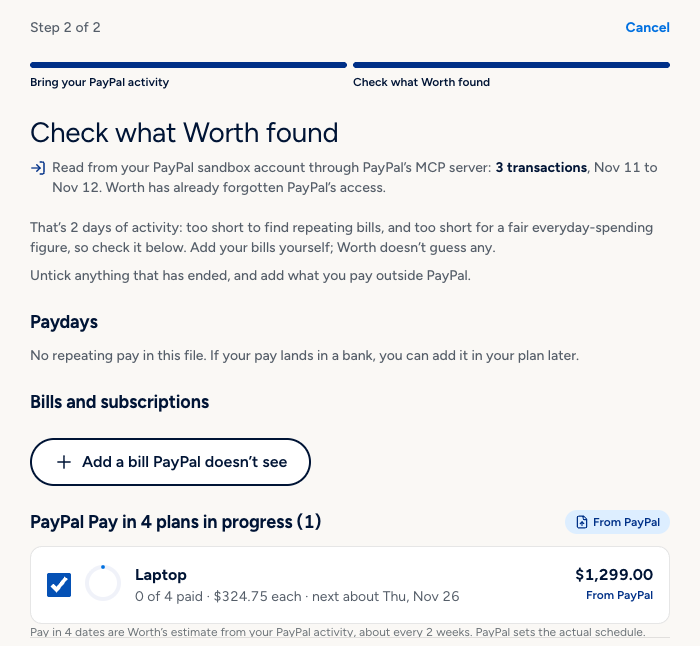
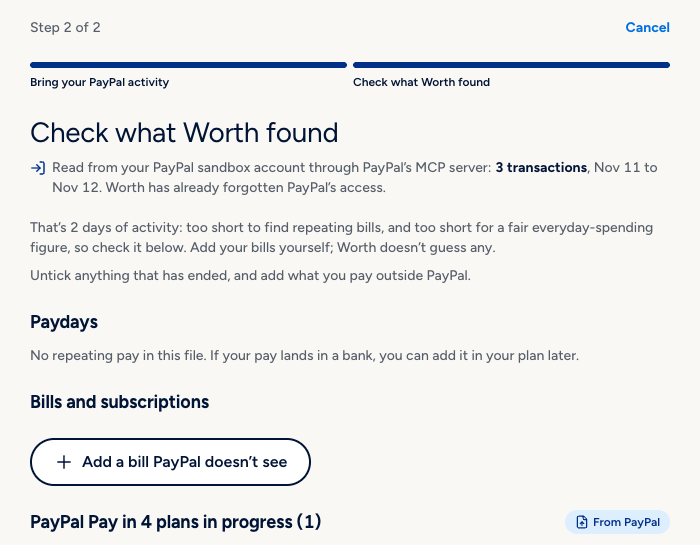
docs: apply the cold judge's stale list: app wording, the guide and its limits, Connect PayPal expectations, dated measurements

diff --git a/README.md b/README.md
@@ -23,7 +23,7 @@ session with a sample plan (Alex, on the demo day Fri, Nov 13, 2026), kept for 2
 
 - **Hosted app:** https://worth.onrender.com opens on Alex's sample plan on the demo day,
   Fri, Nov 13, 2026: the same person and numbers as the video; nothing to install. He has
-  $2,540 available, but the $1,899 Halden X5 camera does not fit that day (room to spend today
+  $2,540 available, but the $1,899 Halden X5 camera does not fit that day (Safe to spend today
   is $872.26); Worth says wait until Tue, Dec 15, the day after a PayPal invoice pays him.
   https://worth.onrender.com/?replay=demo-dec15 opens his return visit, with the camera saved
   and ready.
@@ -92,8 +92,8 @@ and 47% of BNPL users say they paid late in the past year
   Each pressed option gets one summary box. The cushion is a dotted line, any stretch below it is
   shaded red, thin green lines mark days money comes in and thin red lines days money goes out.
   A range control switches between To payday, 30 days and 60 days, a day-in-focus panel explains
-  the day you point at (or pin with the arrow keys), and **View as table** carries the same
-  numbers.
+  the day you point at (or pin with the arrow keys), and **View as table** lists each day's
+  lowest balance.
 - **The guide explains the chart.** Ask Worth on that page about the chart ("What does the red
   shading mean if I buy it today?") and the guide answers from the chart's own facts and changes
   the view to match: which pills are pressed, the range and the day in focus. A short nudge per
@@ -107,8 +107,9 @@ and 47% of BNPL users say they paid late in the past year
   PayPal; Worth captures only when you confirm in Worth, and the payment shows up in Activity
   once.
 - **Save it for the day it fits.** "Save for Tue, Dec 15" keeps the item with its date. When the
-  day comes, Saved says the plan suggests it may fit, you confirm today's funds, Worth checks
-  again, and only then does Buy with PayPal open.
+  day comes, Saved runs a fresh check against today's funds (asking you to confirm them first if
+  they aren't confirmed for today) and shows "Fresh check: this fits today"; only then does
+  **Buy with PayPal** open.
 - **Something cheaper, from real stores.** Under Spend less, and when you ask for something
   cheaper, Worth lists up to four similar products from other stores priced within what keeps the
   cushion today, found through Channel3. They link out; Worth does not sell them.
@@ -160,24 +161,29 @@ Open https://worth.onrender.com. No sign-in; each browser gets its own anonymous
 2. On Home, choose **Connect PayPal**, read the note, then **Continue to PayPal**.
 3. Log in with the sandbox buyer
    (`TODO(owner): sandbox buyer login — see the Devpost testing notes`). PayPal's screen names
-   "Default Application" (PayPal's MCP connector) and asks for transaction data. Choose **Agree
-   and Connect**. If you cancel at PayPal, use your browser's Back button to return.
+   "Default Application" (PayPal's MCP connector) and asks for transaction data. It also lists
+   other permissions (such as invoicing, checkout and disputes), because the connector asks for
+   them; Worth only ever calls `list_transactions` and refuses every other tool before any request
+   is made (`ALLOWED_TOOLS` in `server/paypalConnect.ts`). Choose **Agree and Connect**. If you
+   cancel at PayPal, use your browser's Back button to return.
 4. Wait about 30–40 seconds while Worth reads the activity with PayPal's read-only
    `list_transactions` tool. Then check what it found: this account's $1,299 Laptop bought with
-   Pay in 4 appears as a plan. A purchase PayPal funded with Pay Later, with no payment rows yet,
-   starts as "1 of 4 paid", because PayPal takes the first payment at checkout. **Cancel** or
+   Pay in 4 appears as a plan. A purchase funded by PayPal Pay Later with no payment rows starts
+   as "1 of 4 paid", with three payments left about 14, 28 and 42 days after the purchase
+   (PayPal's US Pay Later takes the first payment at the time of the transaction). **Cancel** or
    **Back** on this screen returns to Home.
-5. Enter money available, a cushion and everyday spending, then **Continue**. Home shows
-   "PayPal connected · updated today".
+5. Enter money available, a cushion and everyday spending (add a payday too, if you can), then
+   **Continue**. Home shows "PayPal connected · updated today".
 6. To return to Alex: **Settings → Delete my data now → Delete and start over**.
 
 A sandbox account holds only what was done in that sandbox, so it has no payday or bills, and
-Worth does not invent any. Home can then read "Short by … on <date>": with no payday in the plan,
-everyday spending and the remaining Pay in 4 payments draw the projected balance below your
-cushion, and the figure is how far below. Add your payday and bills under Plan. Worth keeps
+Worth does not invent any. Until money available and a payday are added (in the review, or later
+under Plan), Home can read "$0 · Short by … on <date>": with no income, everyday spending and the
+remaining Pay in 4 payments draw the projected balance below your cushion, and the figure is how
+far below. Worth keeps
 PayPal's access for one read only, and cannot pay, invoice or move money with it.
 
-![Connect PayPal's review step for a sandbox account: 3 transactions read through PayPal's MCP server, no repeating pay or bills found, and the $1,299 Laptop Pay in 4 plan from PayPal](docs/img/connect-review.png)
+![Connect PayPal's review step for a sandbox account: 3 transactions read through PayPal's MCP server, Worth has already forgotten PayPal's access, too little history for repeating bills, no repeating pay found, an Add a bill PayPal doesn't see button, and the heading for the one Pay in 4 plan in progress](docs/img/connect-review.png)
 
 Pay in 4 itself is chosen inside PayPal's checkout. A sandbox buyer can pick it there; Worth
 cannot see which funding the buyer chose (PayPal's order and capture do not say), so after a
@@ -238,15 +244,19 @@ credentials and the browser receives only the public client ID.
   `file`) and when (`importedAt`); Home's "PayPal connected · updated today" reads those two
   fields, never anything the browser claims.
 
-Verified against the sandbox: SDK v6 popup approval followed by exactly one capture; a US sandbox
-buyer paying $1,199 (an earlier catalog item) with Pay in 4 inside PayPal's checkout (4 × $299.75); and, on the hosted
-app, a capture followed by a $50 refund whose webhook arrived, passed verification and produced
-the review item.
+Checked by hand in the sandbox in October, before the Alex sample: SDK v6 popup approval followed
+by exactly one capture, and a US sandbox buyer paying $1,199 (an earlier catalog item) with Pay
+in 4 inside PayPal's checkout (4 × $299.75). The webhook path (signature verification, refund to
+review item) is covered by the test suite.
 
 ## How AI is used
 
 Claude is the interface and the narrator; the engine is the decision-maker.
 
+- **The guide.** Ask Worth is fronted by a small drawn character, also called Worth
+  (`src/Guide.tsx`), in a launcher on every screen (`src/AgentLauncher.tsx`). Its expression
+  follows the answer (thinking, fits, warning); the panel offers starter questions about the item
+  on screen and a **Take the tour** link.
 - **Model.** `claude-sonnet-5-5` through `@anthropic-ai/sdk`, with a frozen, prompt-cached system
   prompt and strict tool schemas. The loop allows four model rounds and six tool calls, with no
   SDK retries.
@@ -278,6 +288,14 @@ Claude is the interface and the narrator; the engine is the decision-maker.
   comparison for it, built by the server from the catalog. Worth prepares no order: on the
   comparison you choose Buy today anyway, Save for the day it fits, or nothing, and Worth's
   PayPal sandbox checkout opens only behind its guards.
+- **What Claude is not allowed to do.** It has no tool that pays, captures, creates an order,
+  saves, edits the plan or moves money (the tool list is in `server/chat.ts`; the chart tool in
+  `server/chartGuide.ts` changes the view only). It never writes a number or date the user sees:
+  verdicts, facts and chart sentences come from the engine through `server/narration.ts` and
+  `server/chartGuide.ts`, and its one free sentence passes `checkSentence` or is replaced. It
+  never recommends Pay in 4. Its reading of an amount or a date is checked against the user's own
+  words (`server/interpret.ts`), and page or item text it receives is quoted as data, not
+  instructions.
 - **Consent and limits.** The untouched sample plan can use Claude without opt-in; an edited or
   imported plan needs the AI-sharing switch. Requests are capped per IP per hour and per server
   per day; past a cap, or without a key, answers are labelled local calculations.
@@ -350,8 +368,10 @@ boundary, the payment state machine, Channel3, saved plans, sessions and privacy
 
 ## Worth guardrail MCP
 
-Worth runs its own Model Context Protocol server, Worth guardrail MCP, at `/mcp` (Streamable
-HTTP, stateless) with a stdio relay for local clients. Create a revocable agent token in **Settings → Connect an agent**, paste
+Shopping agents are starting to buy for people. Worth's guardrail MCP is the check such an agent
+calls before it pays: it answers from the person's own plan whether the purchase fits, and when,
+and it has no tool that pays or creates an order. Worth runs it as its own Model Context Protocol
+server at `/mcp` (Streamable HTTP, stateless) with a stdio relay for local clients. Create a revocable agent token in **Settings → Connect an agent**, paste
 the generated config into Claude Desktop or any MCP client, and ask "Can I afford the $1,899
 Halden X5?" in your own assistant.
 
@@ -501,7 +521,8 @@ Two layers, both on the AI path; the engine has its own unit and property tests.
   bill-skipping or credit advice; an alternative that does not fit) and has Claude Opus 5.5 judge
   each answer for contradictions and risky advice.
 
-On 2026-10-04, three consecutive live runs over 63 probes (45 train, 18 held out; 73 replies a
+Measured on 2026-10-04, before the Alex sample and the chart guide (so these runs cover neither
+the Halden X5 story nor `show_on_chart`): three consecutive live runs over 63 probes (45 train, 18 held out; 73 replies a
 run) had **0 unsafe outcomes** in every run, 0 programmatic contradictions, and Claude's
 sentence written and accepted for 85–88% of answers. A follow-up single run over 65 probes had 0
 unsafe outcomes and 86% accepted sentences. Exact counts, the judge findings and what was changed

diff --git a/docs/ARCHITECTURE.md b/docs/ARCHITECTURE.md
@@ -140,7 +140,7 @@ Tools, all read-only:
 | `interpret_purchase` | Items in the user's words, stated price in cents, ISO currency, quantity, whether it continues the previous item, the timing phrase copied verbatim and its date, and the option (check, earliest date, most to spend) | Checks every amount and date against the message (`server/money.ts`, `server/dates.ts`); asks instead of guessing when the price is missing, not USD, ambiguous, or the date is vague, past or beyond 35 days; then runs `assessPurchase` and, when asked, the Pay in 4 scenario |
 | `list_commitments` | Subscriptions, bills or both | Lists confirmed obligations due in the next 30 days |
 | `spending_summary` | — | Totals completed USD spending by category for 30 days |
-| `get_plan_summary` | — | Room to spend today, the baseline low point and its cause |
+| `get_plan_summary` | — | Safe to spend today, the baseline low point and its cause |
 | `find_alternatives` | A generic kind of item and a ceiling the user wrote | Refuses for "cheaper" about timing, payment method or services; otherwise searches Channel3 within the room today; only the outcome returns to Claude, never product names or prices |
 | `open_purchase_check` | A catalog item ID, when the person asks to buy it | Assesses the item at its catalog price today and links to Worth's own comparison, `#decision?product=<id>`. Worth prepares no order; Claude receives only whether a link was shown |
 | `show_on_chart` | Offered only when the request carries a chart view and the question is about the chart: one to three fact ids, and the pills, range (`payday`, `30`, `60`) and focus day the chart should show, all from enums built for this item | Rebuilds the item's comparison, writes each fact in the chart's own words (`src/chartModel.ts`), drops any option, range or day outside this item and window, and returns the view change as `chart` in the reply. View state only: it cannot navigate, save, buy or edit the plan. Without Claude the same facts and view come from Worth's own rules (`server/chartGuide.ts`) |
@@ -169,7 +169,7 @@ client shows it under "How Ask Worth read this".
 
 **Buying a listed item.** Ask Worth never prepares an order (decision 0.2 of the checkout
 pivot). When the person asks to buy a catalog item, `open_purchase_check` shows the engine's
-assessment of buying it today and an "Open Worth's comparison" link to the Decision view for that
+assessment of buying it today and an "Open Worth's comparison" link to the purchase answer page for that
 item. The link, name and price come from the server's catalog, never from Claude. On the
 comparison the person presses "Buy today anyway" or "Save for <date>" themselves, and Worth's own
 PayPal sandbox checkout opens only behind `checkoutGuards`. The Worth app never names or links to
@@ -362,8 +362,7 @@ responses on every run, and run live against the real model on demand; see
 Provider behaviour verified against the real sandbox, outside the suite: SDK v6 popup approval
 with exactly one capture and one activity row; cancellation and recovery; a US sandbox buyer
 completing Pay in 4 for $1,199 inside PayPal's checkout; PayPal Messages rendering on the US
-sandbox merchant; and, on the hosted app, a capture followed by a $50 refund whose webhook was
-delivered, verified and turned into a review item.
+sandbox merchant; these were checked by hand in October, before the Alex sample.
 
 Not covered: production payments, automatic access to personal PayPal history, goods
 fulfilment, more than one server instance, and encryption at rest.
